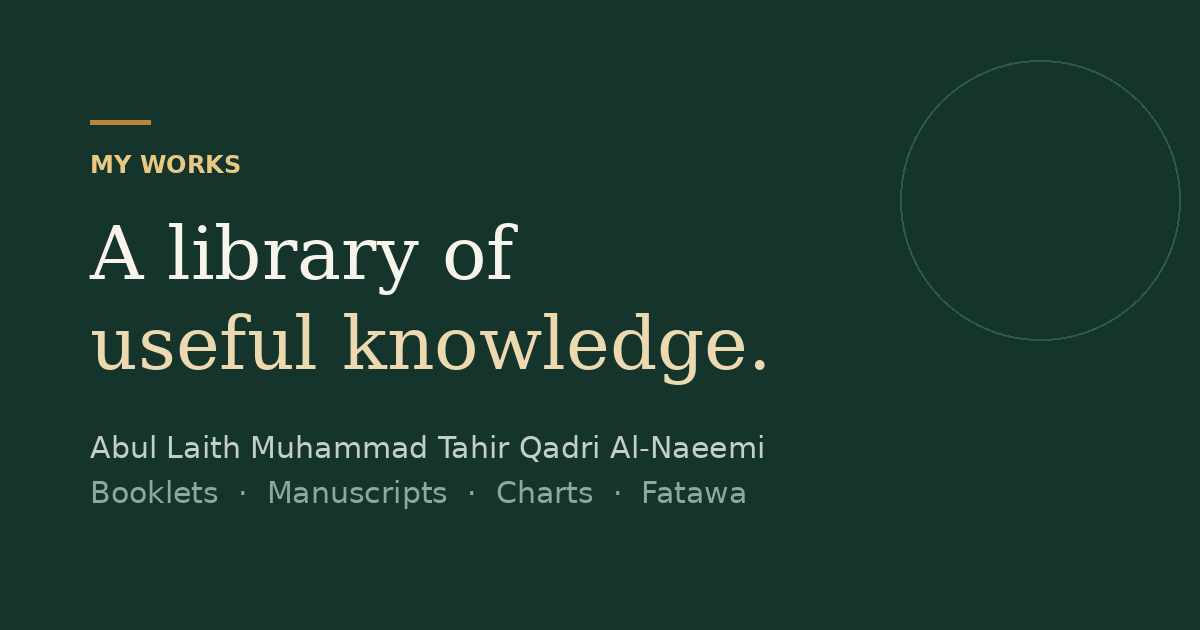
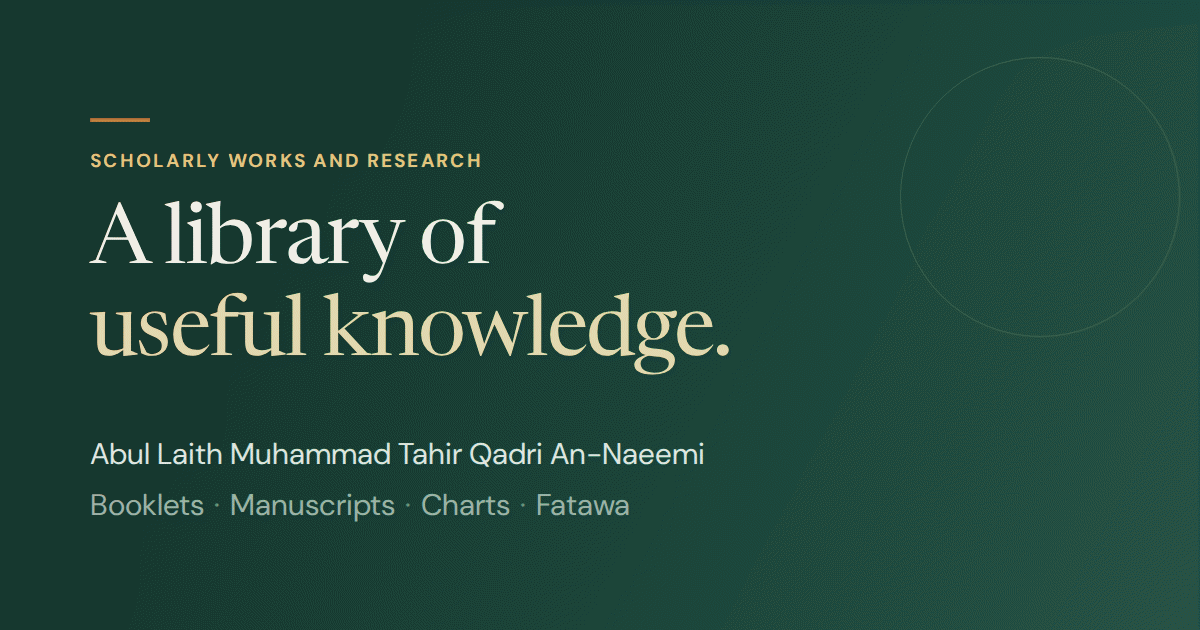
Redraw the sharing card
The picture WhatsApp and Facebook show still read MY WORKS, and still
spelt the name Al-Naeemi. Both were corrected on the site months ago, but
the card is a flat PNG and could not follow.

Redrawn with the same layout, colours and type as before — only the two
lines of wording are different. share-card.html beside it is the page it
was shot from, so the next change does not have to be traced by hand in an
image editor: open it, size the window to 1200x630, screenshot, save over
the PNG.

The stylesheet's own header still said "My Works" too.

Claude-Session: https://claude.ai/code/session_01SECTrewML65skxtNi2yVKx

diff --git a/share-card.html b/share-card.html
@@ -1,0 +1,62 @@
+<!doctype html><html><head><meta charset="utf-8" />
+<meta name="robots" content="noindex" />
+<title>Sharing card — 1200×630</title>
+<!-- The picture that WhatsApp, Facebook and X show when a link to the
+     site is forwarded. It is a flat PNG, so it cannot follow content.js:
+     when the wording here changes, this page has to be re-shot.
+
+     To regenerate: open this file, set the window to exactly 1200x630,
+     screenshot it, and save over share-card.png. Nothing else reads this
+     page — it is the card's source, kept beside it so the next change
+     does not have to be guessed at in an image editor. -->
+<link rel="preconnect" href="https://fonts.gstatic.com" crossorigin />
+<link rel="stylesheet" href="https://fonts.googleapis.com/css2?family=DM+Sans:opsz,wght@9..40,400;9..40,700&family=Newsreader:opsz,wght@6..72,400&display=swap" />
+<style>
+  * { box-sizing: border-box; margin: 0; }
+  html, body { width: 1200px; height: 630px; }
+  body {
+    position: relative;
+    overflow: hidden;
+    padding: 118px 0 0 90px;
+    background: linear-gradient(118deg, #102f27 0%, #17483c 68%, #1c5346 100%);
+    font-family: "DM Sans", sans-serif;
+    -webkit-font-smoothing: antialiased;
+  }
+  /* the thin ring, echoing the one behind the hero */
+  .ring {
+    position: absolute;
+    right: 20px; top: 57px;
+    width: 280px; height: 280px;
+    border: 1px solid rgba(232, 200, 130, 0.22);
+    border-radius: 50%;
+  }
+  .rule { width: 60px; height: 4px; background: #b8863a; }
+  .eyebrow {
+    margin-top: 26px;
+    color: #e8c882;
+    font-size: 19px; font-weight: 700;
+    letter-spacing: 0.12em; text-transform: uppercase;
+  }
+  h1 {
+    margin-top: 24px;
+    max-width: 800px;
+    font-family: "Newsreader", Georgia, serif;
+    font-weight: 400;
+    font-size: 84px;
+    line-height: 1.1;
+    letter-spacing: -0.02em;
+    color: #f7f4ec;
+  }
+  h1 em { font-style: normal; color: #ecd9b0; }
+  .name { margin-top: 52px; color: #dfe8e2; font-size: 30px; }
+  .meta { margin-top: 12px; color: #9fb3a8; font-size: 30px; }
+  .meta span { padding: 0 10px; color: #6f8a7d; }
+</style></head>
+<body>
+  <div class="ring"></div>
+  <div class="rule"></div>
+  <p class="eyebrow">Scholarly Works and Research</p>
+  <h1>A library of<br /><em>useful knowledge.</em></h1>
+  <p class="name">Abul Laith Muhammad Tahir Qadri An-Naeemi</p>
+  <p class="meta">Booklets<span>·</span>Manuscripts<span>·</span>Charts<span>·</span>Fatawa</p>
+</body></html>

diff --git a/styles.css b/styles.css
@@ -1,5 +1,5 @@
 /* ============================================================
-   My Works — stylesheet
+   Scholarly Works and Research — stylesheet
    Sections: 1 tokens · 2 base · 3 typography · 4 header & nav
    5 hero · 6 author · 7 library · 8 fatawa · 9 contact
    10 footer · 11 work page · 12 responsive
